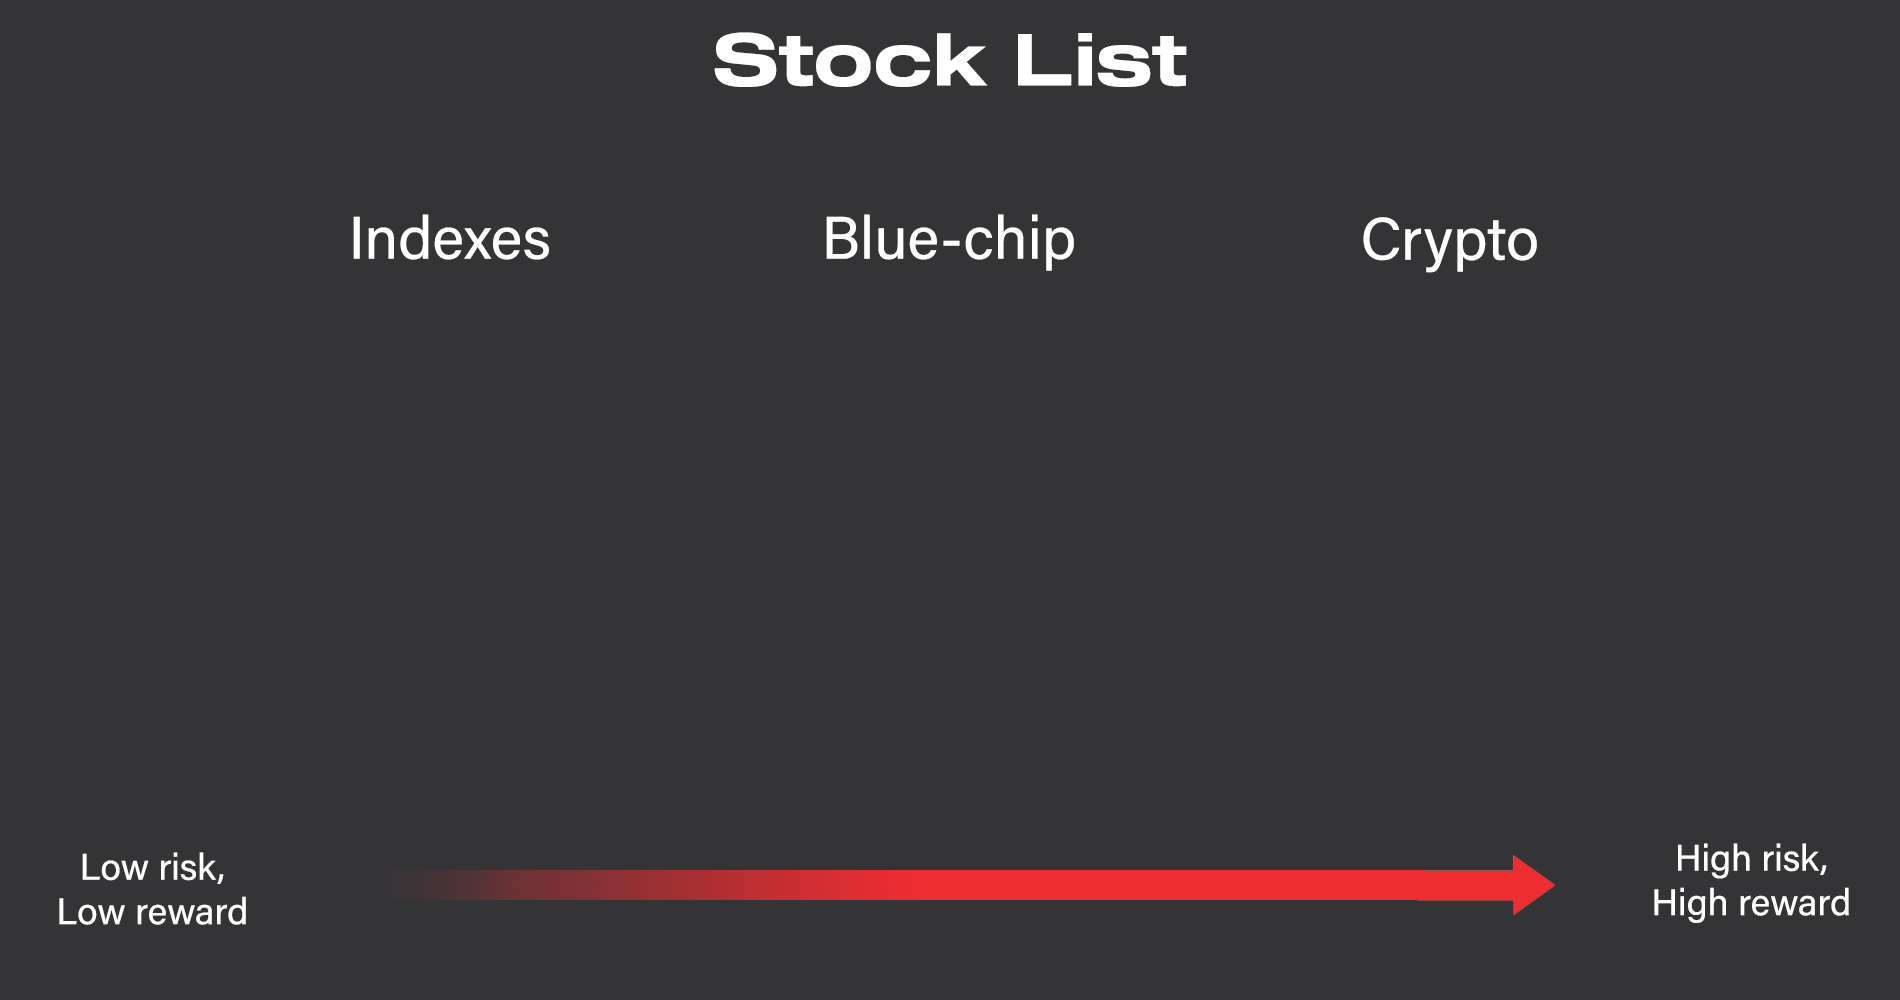
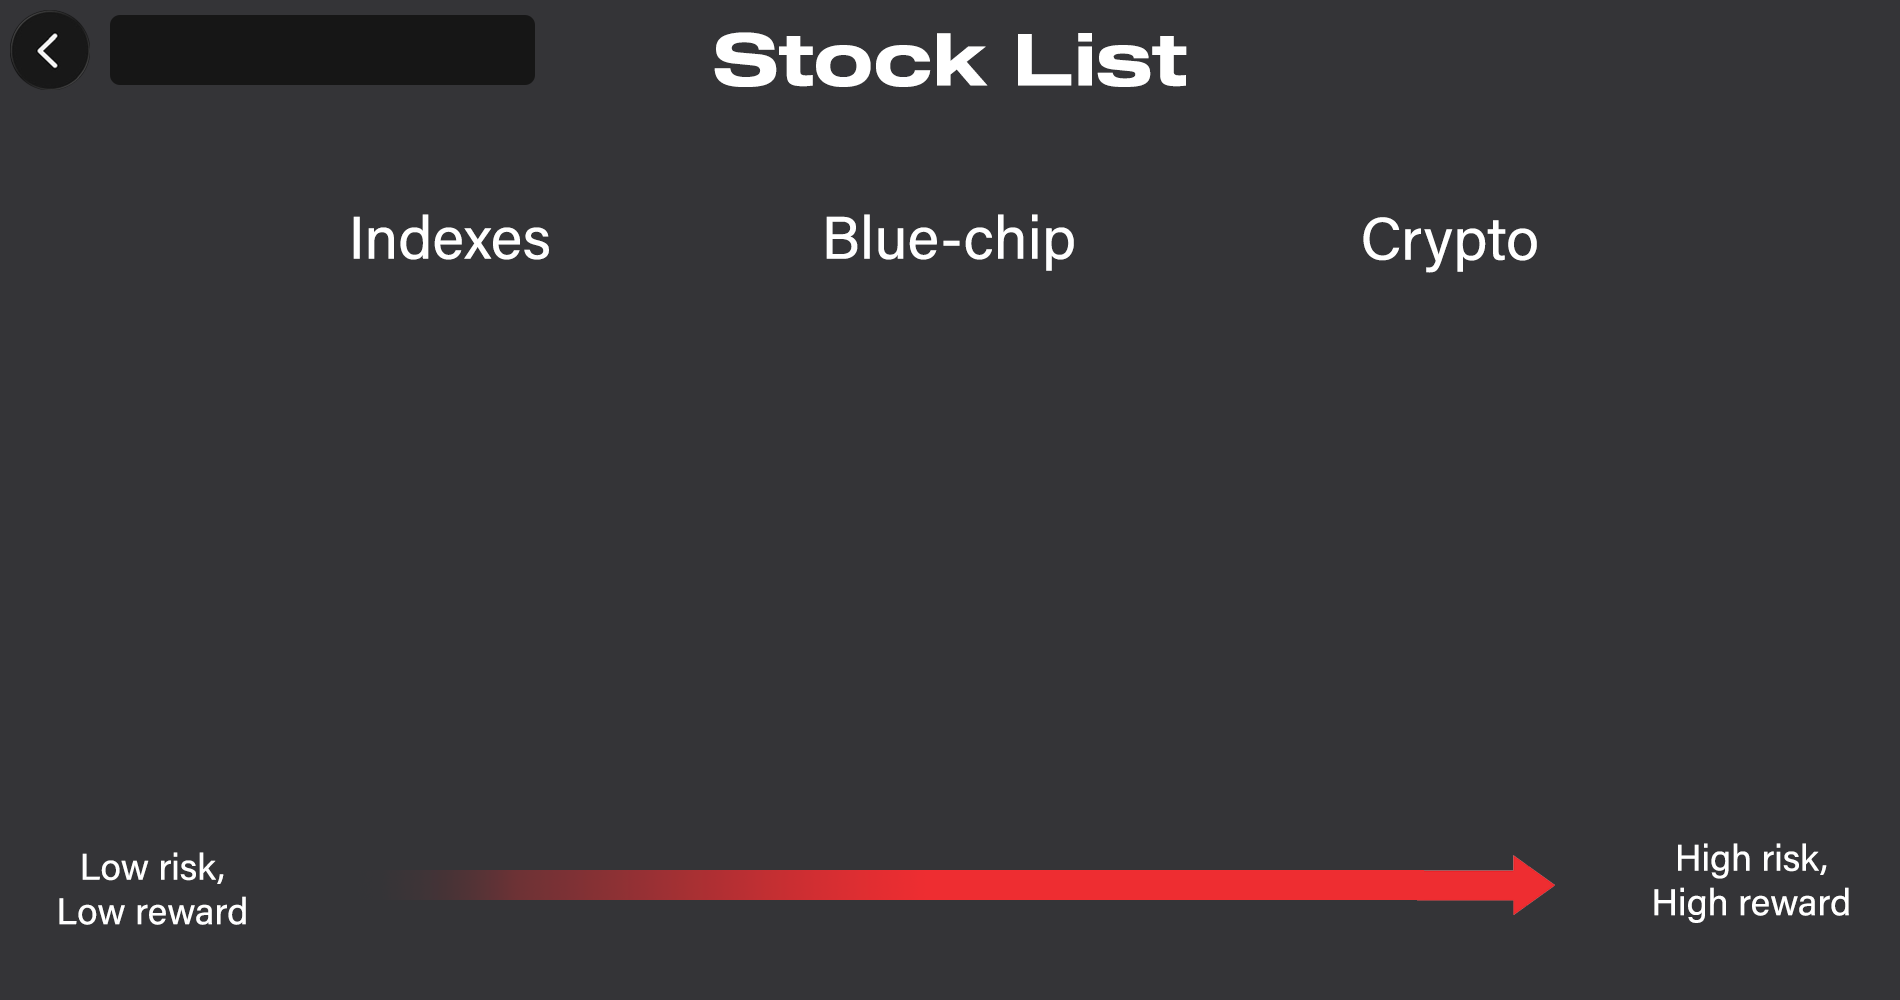
sync

Changed region(s): [[0.0, 0.0, 0.2795, 0.093]]

diff --git a/pumpAndDumpGame/src/pumpAndDumpGame/PumpAndDumpGame.java b/pumpAndDumpGame/src/pumpAndDumpGame/PumpAndDumpGame.java
@@ -35,6 +35,7 @@ public class PumpAndDumpGame extends JPanel implements Runnable, KeyListener, Mo
 	Font title = new Font ("Arial", Font.BOLD, 100);
 	Font header = new Font("Arial", Font.BOLD, 50);
 	Font body = new Font("Arial", Font.PLAIN, 32);
+	Font body2 = new Font("Arial", Font.PLAIN, 40);
 	FontMetrics fmTitle;
 	
 	Image menuTitle, menuPlayButton, menuSettingsButton;
@@ -287,6 +288,8 @@ public class PumpAndDumpGame extends JPanel implements Runnable, KeyListener, Mo
 	public void drawStockList(Graphics g) {
 		g.drawImage(stockList, 0, 0, 1900, 1000, this);
 		g.setColor(Color.WHITE);
+		g.setFont(body2);
+		g.drawString(String.format("$%.2f", money), 120, 65);
 		
 		int startX, startY;
 		int index = 0;
@@ -306,7 +309,8 @@ public class PumpAndDumpGame extends JPanel implements Runnable, KeyListener, Mo
 			g.drawString(s.getSymbol(), startX + 80, startY + 60);
 			//draw today's change
 			g.setFont(body);
-			s.drawIndicator(s.getValue(), s.getPastPrice(Stock.getTime() + 35), startX + 10, startY + 110, body, g);
+//			s.drawIndicator(s.getValue(), s.getPastPrice(Stock.getTime() + 35), startX + 10, startY + 110, body, g);
+			s.drawListIndicator(startX, startY, g);
 			index++;
 			//draw graph
 			s.drawTinyGraph(startX, startY, g);

diff --git a/pumpAndDumpGame/src/classFiles/Stock.java b/pumpAndDumpGame/src/classFiles/Stock.java
@@ -580,7 +580,15 @@ public class Stock implements Comparable<Stock> {
 	}
 	
 	public void drawListIndicator(int x, int y, Graphics g) {
-		g.drawString(String.format("$%.2f", getValue()), x + 10, y + 110);
+		double refPrice = getPastPrice(35);
+		if(getValue() >= refPrice) {
+			g.setColor(Color.GREEN);
+		}
+		else {
+			g.setColor(Color.RED);
+		}
+		g.drawString(String.format("$%.2f (%+.2f%%)", getValue(), 100 * (getValue() - refPrice) / refPrice),
+				x + 10, y + 110);
 	}
 	
 	public double getPastPrice(int hoursAgo) {
